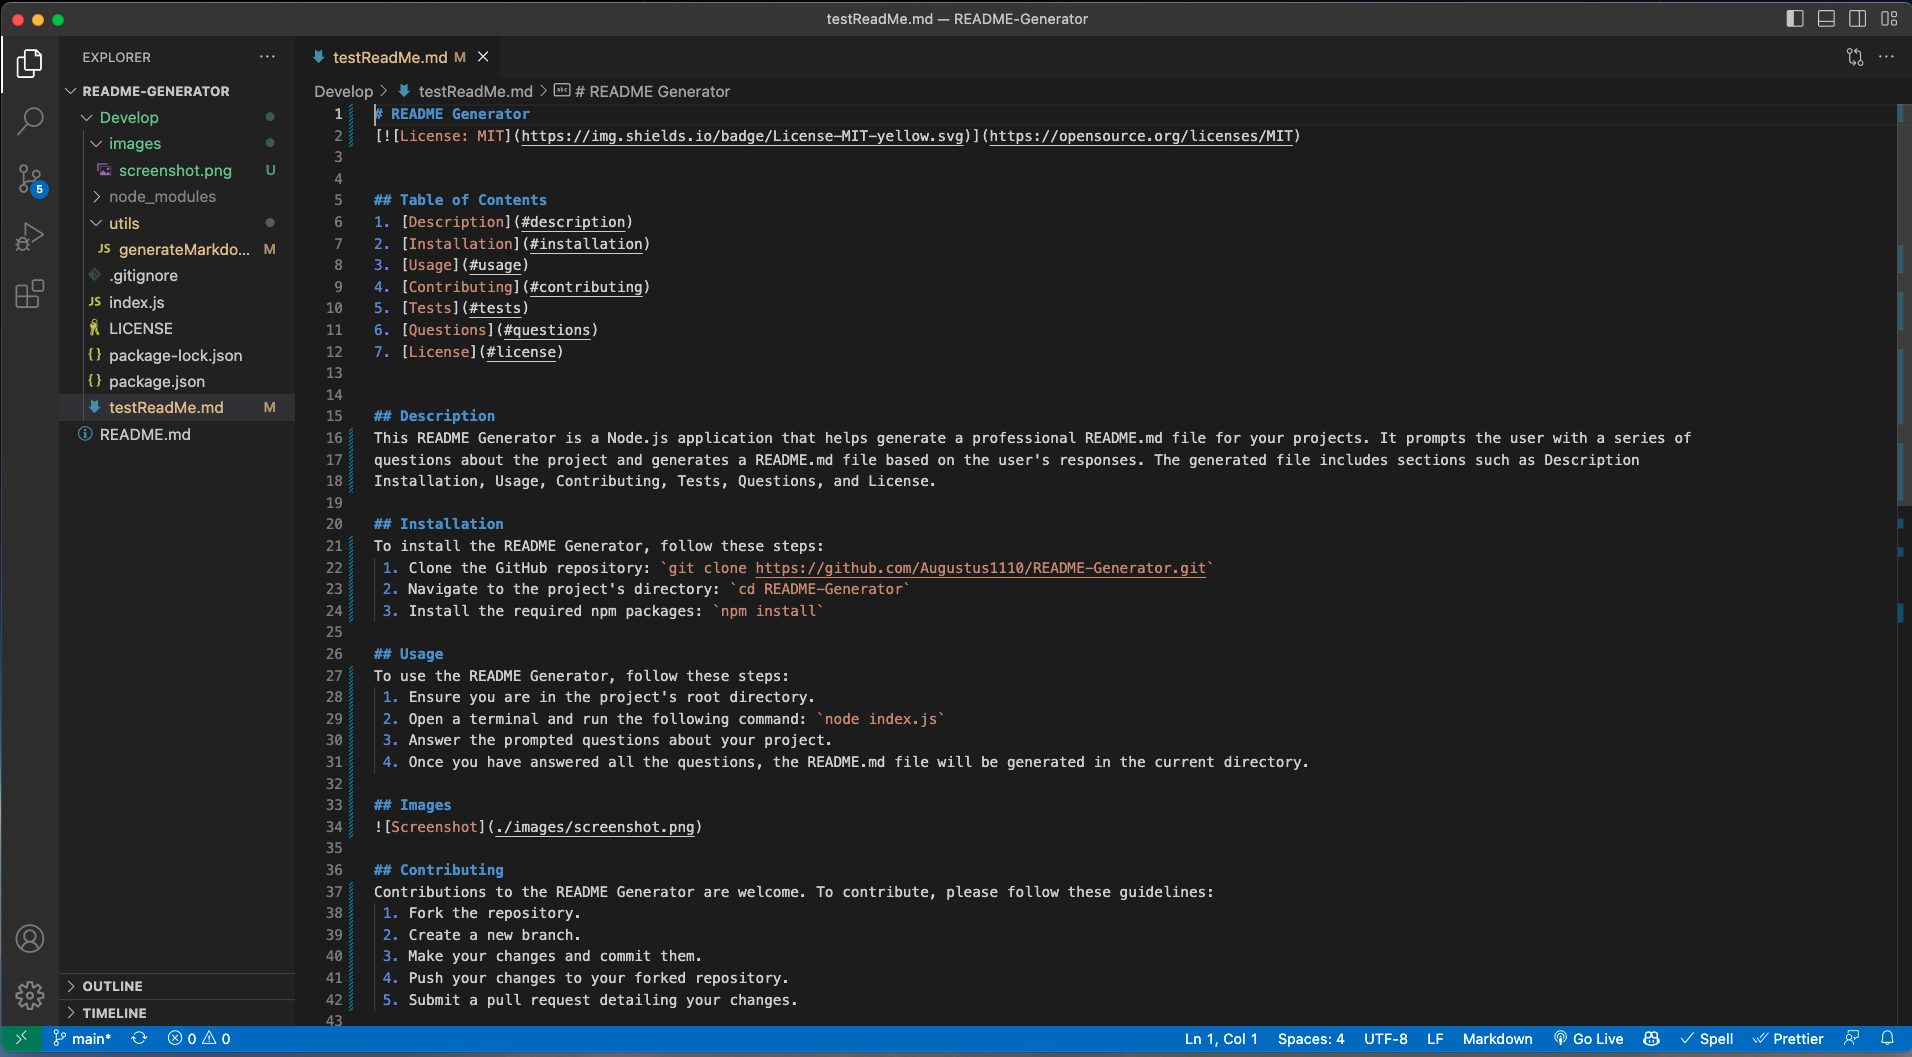
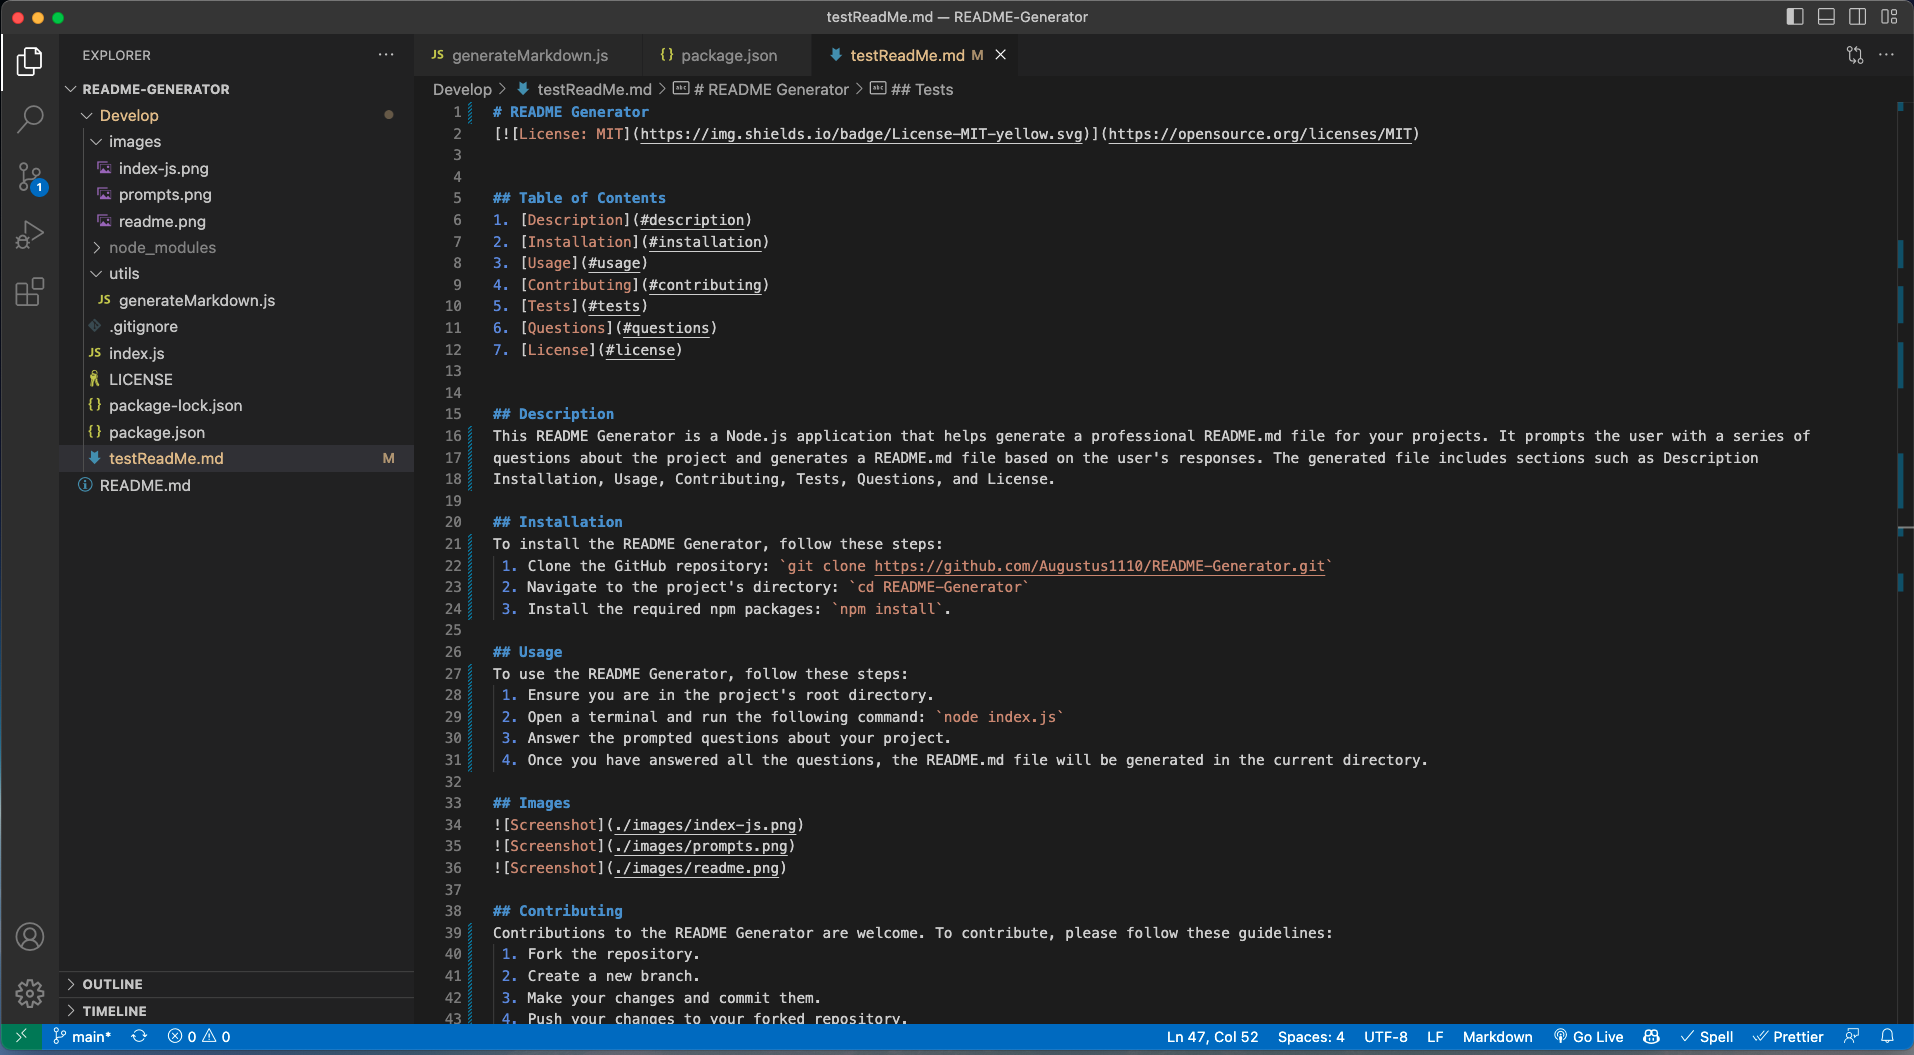
updated readme image

diff --git a/Develop/testReadMe.md b/Develop/testReadMe.md
@@ -1,4 +1,4 @@
-# ReadMe Generartor
+# README Generator
 [![License: MIT](https://img.shields.io/badge/License-MIT-yellow.svg)](https://opensource.org/licenses/MIT)
 
 
@@ -13,13 +13,22 @@
 
 
 ## Description
-stuf
+This README Generator is a Node.js application that helps generate a professional README.md file for your projects. It prompts the user with a series of 
+questions about the project and generates a README.md file based on the user's responses. The generated file includes sections such as Description 
+Installation, Usage, Contributing, Tests, Questions, and License.
 
 ## Installation
-stuff
+To install the README Generator, follow these steps:
+ 1. Clone the GitHub repository: `git clone https://github.com/Augustus1110/README-Generator.git`
+ 2. Navigate to the project's directory: `cd README-Generator`
+ 3. Install the required npm packages: `npm install`.
 
 ## Usage
-more stuff
+To use the README Generator, follow these steps:
+ 1. Ensure you are in the project's root directory.
+ 2. Open a terminal and run the following command: `node index.js`
+ 3. Answer the prompted questions about your project.
+ 4. Once you have answered all the questions, the README.md file will be generated in the current directory.
 
 ## Images
 ![Screenshot](./images/index-js.png)
@@ -27,16 +36,21 @@ more stuff
 ![Screenshot](./images/readme.png)
 
 ## Contributing
-ok
+Contributions to the README Generator are welcome. To contribute, please follow these guidelines:
+ 1. Fork the repository.
+ 2. Create a new branch.
+ 3. Make your changes and commit them.
+ 4. Push your changes to your forked repository.
+ 5. Submit a pull request detailing your changes.
 
 ## Tests
-yes
+Tests are currently not available for this project.
 
 ## Questions
 If you have any questions, please contact me:
 
-- GitHub: [no](https://github.com/no)
-- Email: no
+- GitHub: [Augustus1110](https://github.com/Augustus1110)
+- Email: donahi22@gmail.com
 
 ## License
 MIT
